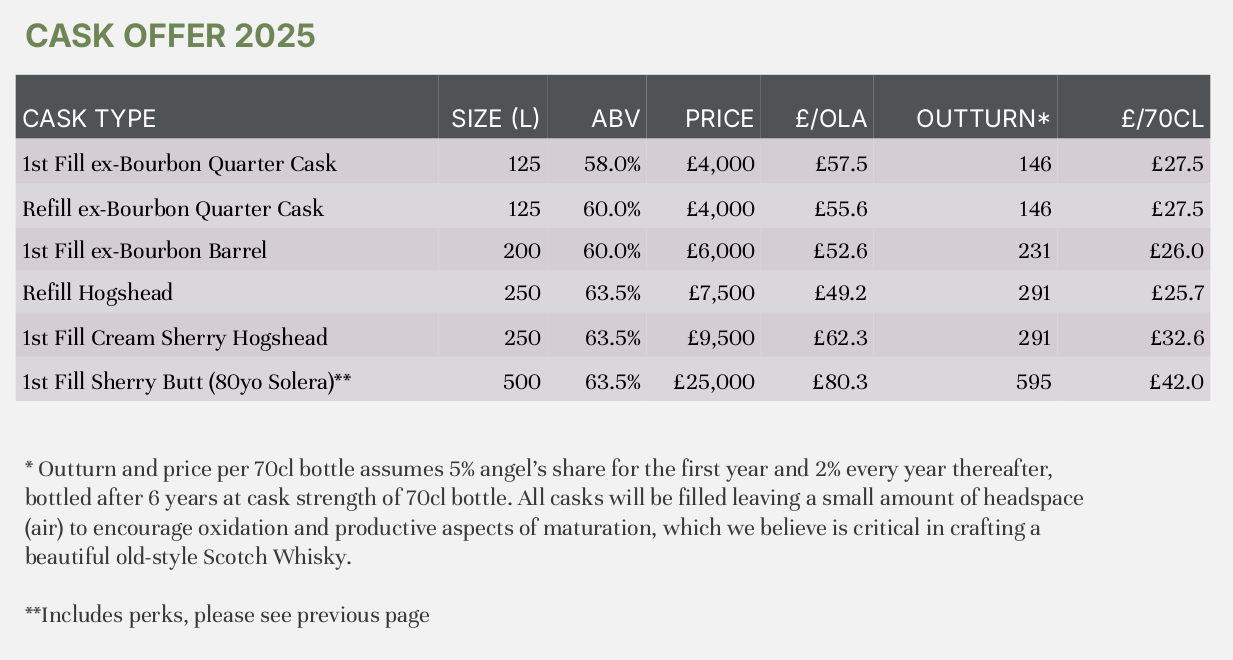
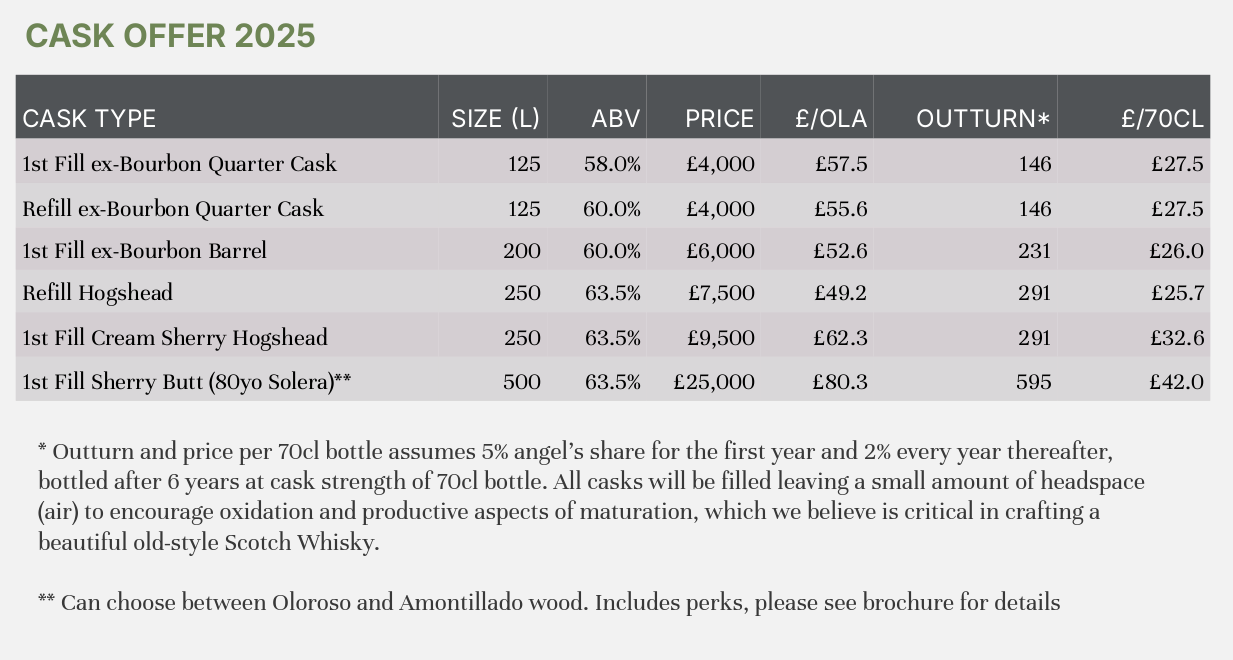
Add files via upload

Changed region(s): [[0.0, 0.6667, 0.9246, 0.9697]]

diff --git a/index.html b/index.html
@@ -190,7 +190,7 @@
             <br><br>
             The easy part is over. What lies before us now is the daunting and humbling task of creating a whisky that matches our rhetoric, satisﬁes our ambitions and, most essentially of all, has the beauty, quality and distinctiveness to be worthy of your support. We hope you will keep going on this journey with us; through years, challenges, new milestones and casks…
             <br><br>
-            We are offering the following 6 cask types to those who are interested in owning a cask of Kythe single malt. A detailed cask brochure can be downloaded here.
+            We are offering the following 6 cask types to those who are interested in owning a cask of Kythe single malt. A detailed cask brochure can be <a target=”_blank” class="dl_link" href="https://www.kythedistillery.com/KytheCaskOwnersProgramme2025.pdf">downloaded here</a>.
             </p></div>
 </section>
 
@@ -199,8 +199,8 @@
 </div>
 
 <div class="mobile_space_40"></div>
-<a href="#">
-<button class="mobile submit">BUY A CASK</button>
+<a href="javascript:void(0)">
+<button class="mobile submit">Available on July 3, 2025</button>
 </a>
 
 <div class="mobile_space_80"></div>
@@ -256,7 +256,7 @@
             <br><br>
             The easy part is over. What lies before us now is the daunting and humbling task of creating a whisky that matches our rhetoric, satisﬁes our ambitions and, most essentially of all, has the beauty, quality and distinctiveness to be worthy of your support. We hope you will keep going on this journey with us; through years, challenges, new milestones and casks…
             <br><br>
-            We are offering the following 6 cask types to those who are interested in owning a cask of Kythe single malt. A detailed cask brochure can be downloaded here.
+            We are offering the following 6 cask types to those who are interested in owning a cask of Kythe single malt. A detailed cask brochure can be <a target=”_blank” class="dl_link" href="https://www.kythedistillery.com/KytheCaskOwnersProgramme2025.pdf">downloaded here</a>.
             
             </p></div>
             <div id="anchor_buyacask_desktop"></div>
@@ -265,8 +265,8 @@
     <div class="desktop_space_40"></div>
     <img id="draft" src="./Asset/cask_table.png" width="820px">
     <div class="desktop_space_25"></div>
-    <a href="#">
-    <button class="submit">Buy a cask</button>
+    <a href="javascript:void(0)">
+    <button class="submit">Available on July 3, 2025</button>
     </a>
     <div class="spaceline"></div>
 </section>

diff --git a/style.css b/style.css
@@ -117,6 +117,14 @@ footer{
     align-items: center;
 }
 
+.dl_link{
+    font-family: 'Unna', serif;
+    color: #383838;
+    line-height: 21px;
+    font-size: 15px;
+    font-weight: 100;
+    text-decoration: underline;
+}
 
 .text_center{
     text-align: center;
